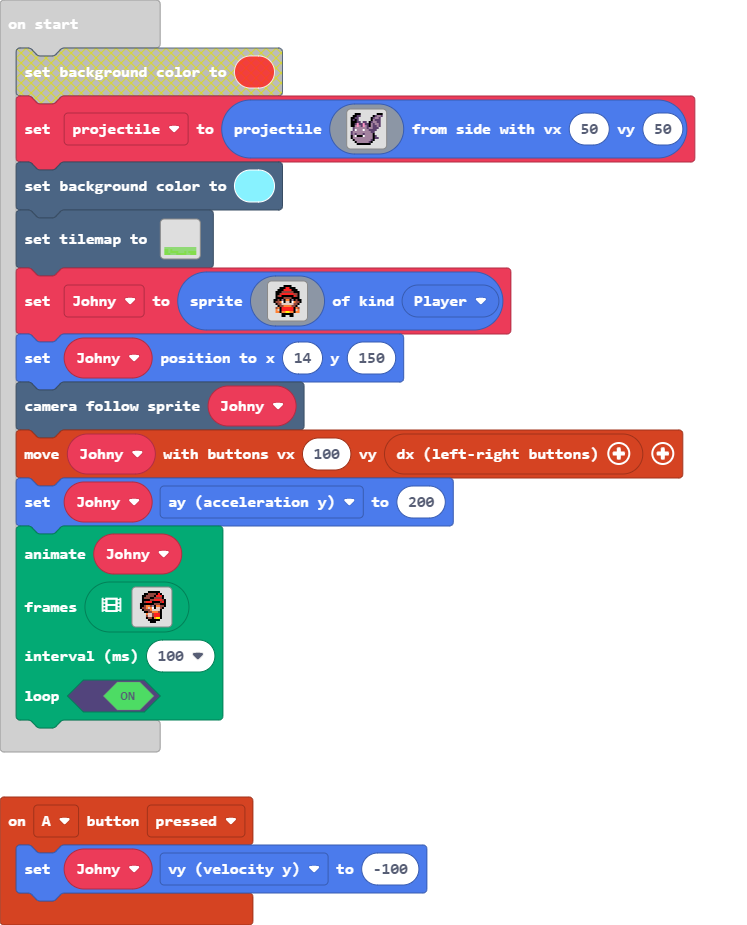
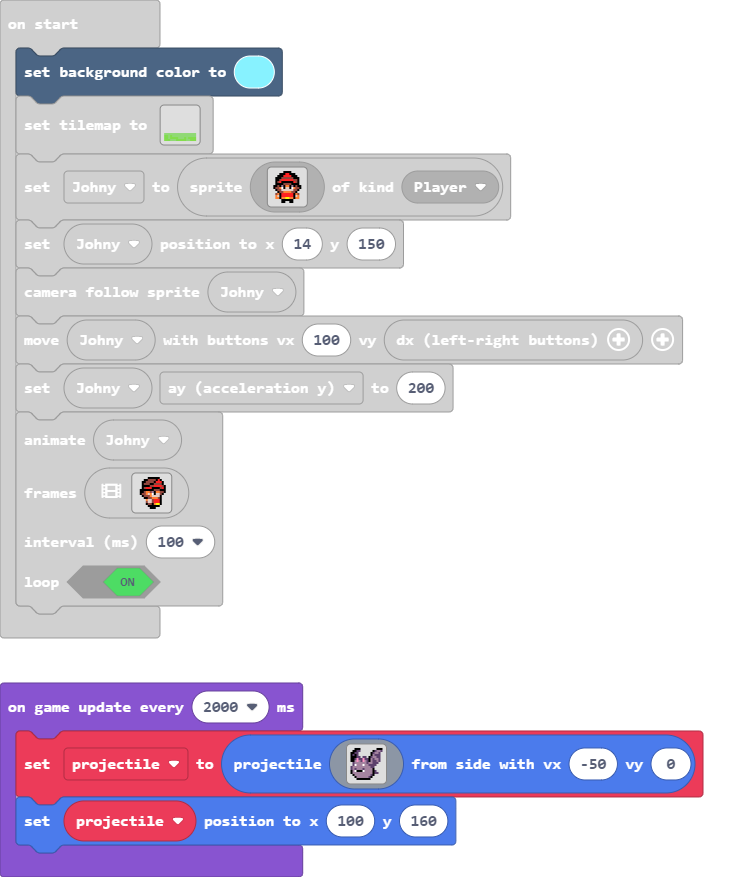
Update main.blocks, main.ts

diff --git a/main.ts b/main.ts
@@ -1,25 +1,8 @@
 controller.A.onEvent(ControllerButtonEvent.Pressed, function () {
     Johny.vy = -100
 })
+let projectile: Sprite = null
 let Johny: Sprite = null
-let projectile = sprites.createProjectileFromSide(img`
-    . . f f f . . . . . . . . f f f 
-    . f f c c . . . . . . f c b b c 
-    f f c c . . . . . . f c b b c . 
-    f c f c . . . . . . f b c c c . 
-    f f f c c . c c . f c b b c c . 
-    f f c 3 c c 3 c c f b c b b c . 
-    f f b 3 b c 3 b c f b c c b c . 
-    . c b b b b b b c b b c c c . . 
-    . c 1 b b b 1 b b c c c c . . . 
-    c b b b b b b b b b c c . . . . 
-    c b c b b b c b b b b f . . . . 
-    f b 1 f f f 1 b b b b f c . . . 
-    f b b b b b b b b b b f c c . . 
-    . f b b b b b b b b c f . . . . 
-    . . f b b b b b b c f . . . . . 
-    . . . f f f f f f f . . . . . . 
-    `, 50, 50)
 scene.setBackgroundColor(9)
 tiles.setTilemap(tilemap`level1`)
 Johny = sprites.create(img`
@@ -118,3 +101,24 @@ Johny,
 100,
 true
 )
+game.onUpdateInterval(2000, function () {
+    projectile = sprites.createProjectileFromSide(img`
+        . . f f f . . . . . . . . f f f 
+        . f f c c . . . . . . f c b b c 
+        f f c c . . . . . . f c b b c . 
+        f c f c . . . . . . f b c c c . 
+        f f f c c . c c . f c b b c c . 
+        f f c 3 c c 3 c c f b c b b c . 
+        f f b 3 b c 3 b c f b c c b c . 
+        . c b b b b b b c b b c c c . . 
+        . c 1 b b b 1 b b c c c c . . . 
+        c b b b b b b b b b c c . . . . 
+        c b c b b b c b b b b f . . . . 
+        f b 1 f f f 1 b b b b f c . . . 
+        f b b b b b b b b b b f c c . . 
+        . f b b b b b b b b c f . . . . 
+        . . f b b b b b b c f . . . . . 
+        . . . f f f f f f f . . . . . . 
+        `, -50, 0)
+    projectile.setPosition(100, 160)
+})
